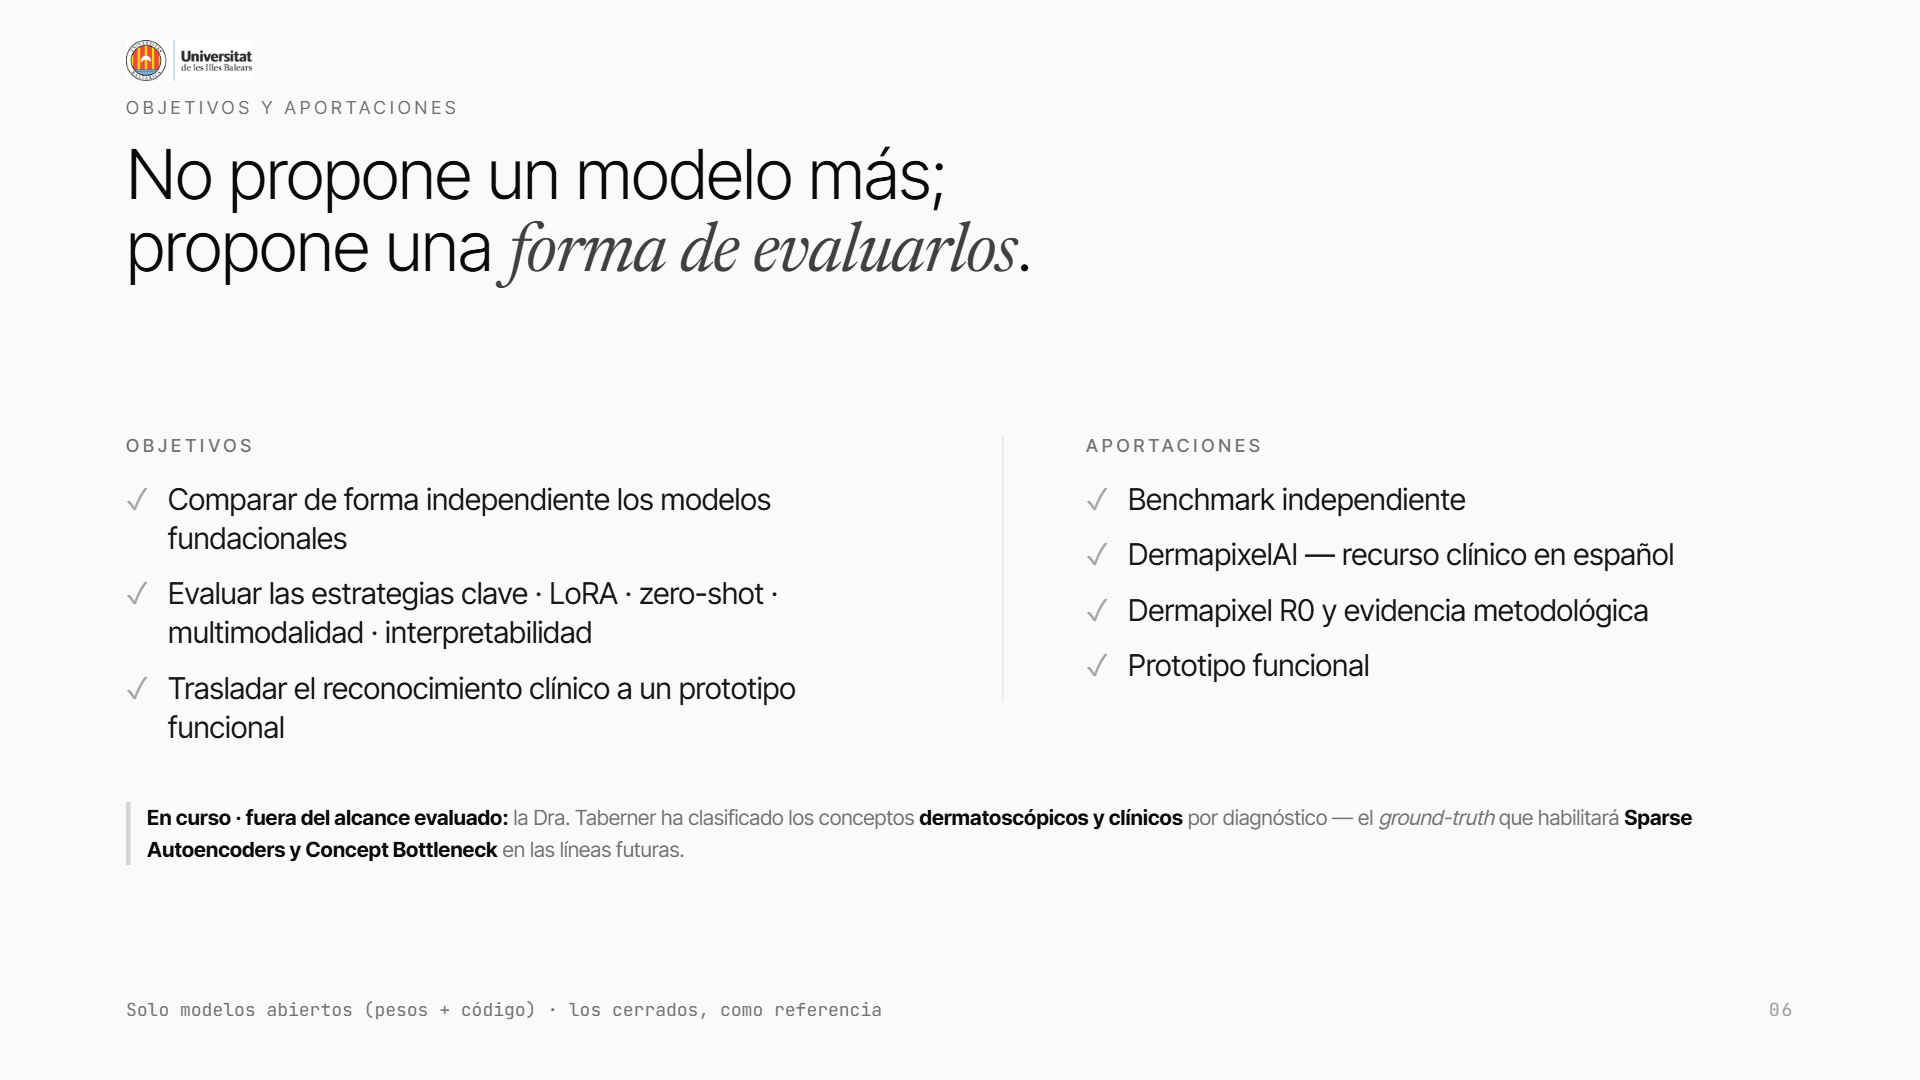
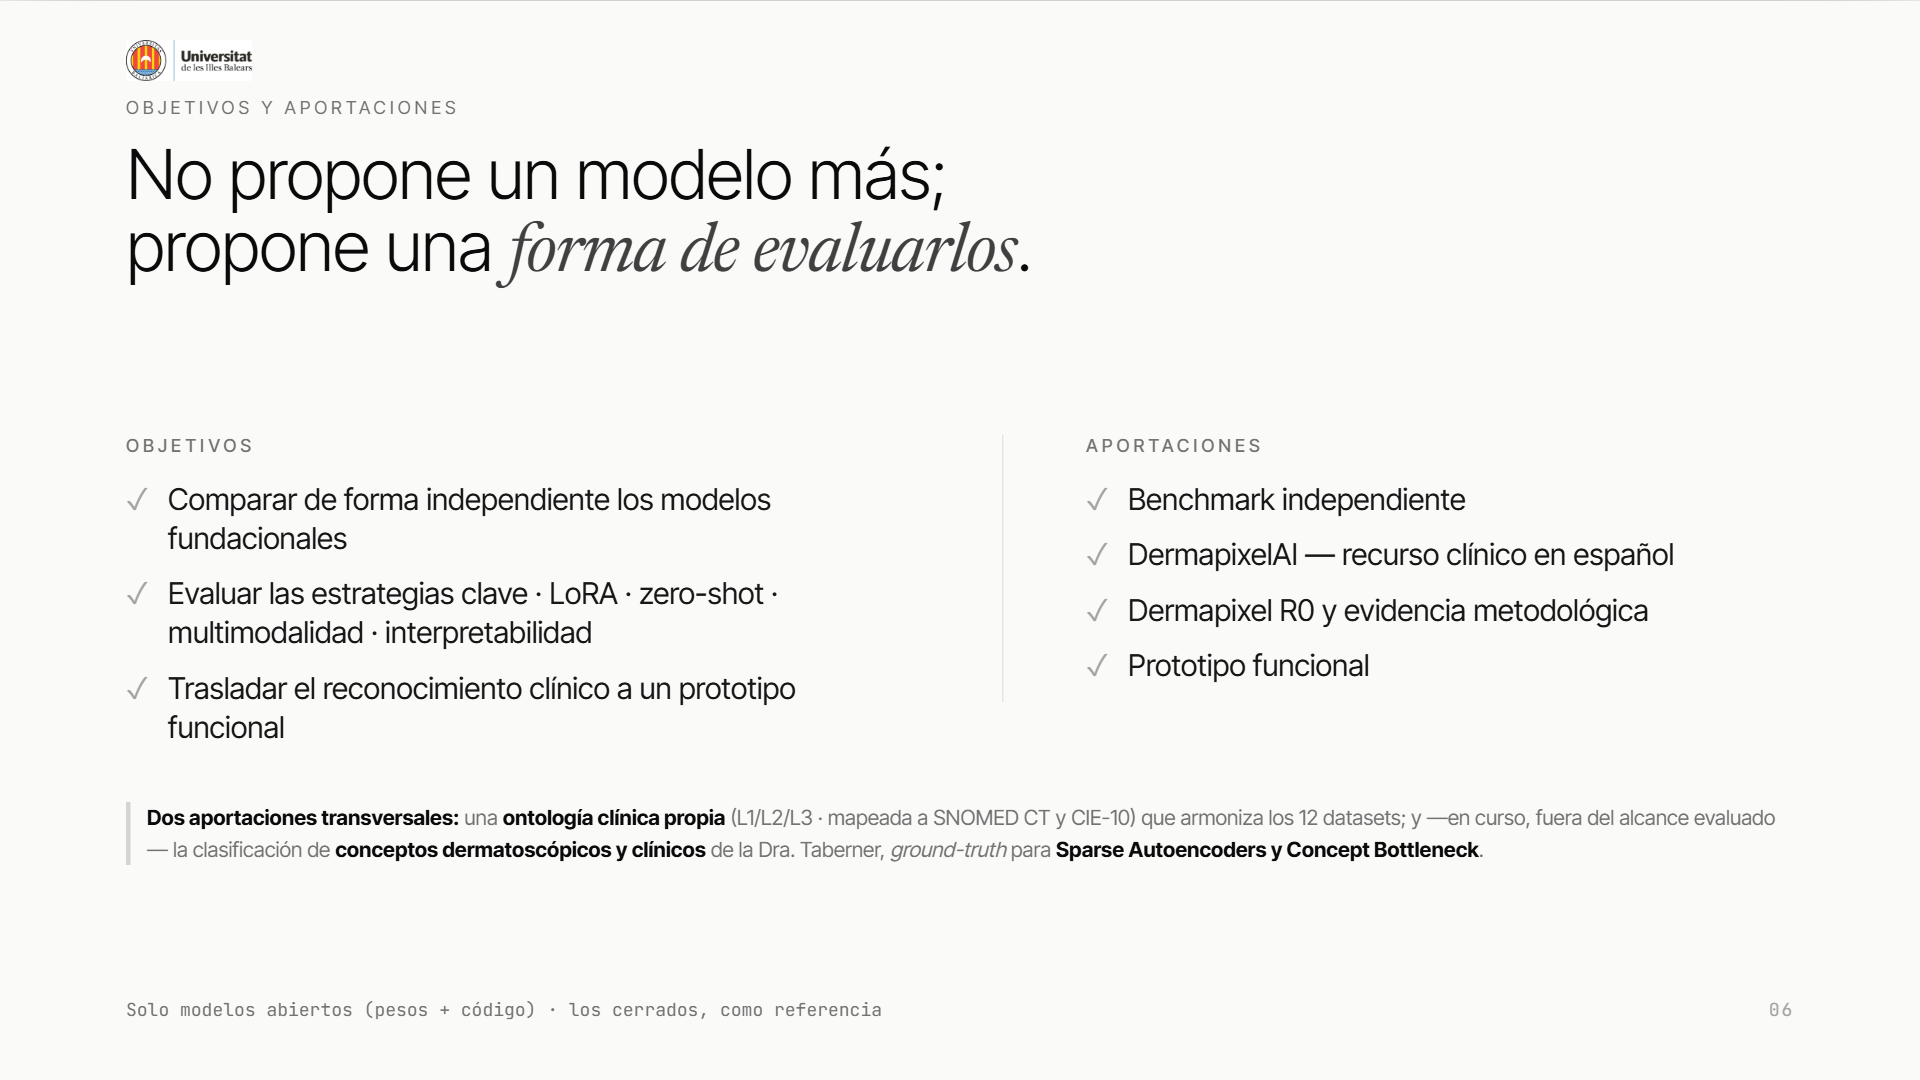
deck slide06: anade la ontologia clinica propia (L1/L2/L3, SNOMED/CIE-10) como aportacion transversal junto a los conceptos

Changed region(s): [[0.0625, 0.7333, 0.9375, 0.7944]]

diff --git a/deck/index.html b/deck/index.html
@@ -342,7 +342,7 @@
   </section>
 
   <!-- ═══ Slide 5 · Objetivos y aportaciones ═══ -->
-  <section class="slide" data-notes="Tres objetivos: comparar de forma independiente los modelos fundacionales; evaluar las estrategias clave —LoRA, zero-shot, multimodalidad, interpretabilidad—; y trasladar el reconocimiento sobre fotografía clínica a un prototipo funcional. Y la idea que resume el espíritu: no propone un modelo más, propone una forma de evaluarlos. De ahí sus cuatro aportaciones: benchmark independiente, DermapixelAI, evidencia metodológica con Dermapixel R0, y un prototipo funcional. Todas las comparaciones priorizan modelos abiertos, por reproducibilidad; los cerrados, solo como referencia. Y un apunte, ya fuera del alcance evaluado pero que he empezado a introducir: la Dra. Taberner ha clasificado los conceptos dermatoscópicos y clínicos por diagnóstico; ese vocabulario será el ground-truth que habilite los Sparse Autoencoders y los Concept Bottleneck en las líneas futuras.">
+  <section class="slide" data-notes="Tres objetivos: comparar de forma independiente los modelos fundacionales; evaluar las estrategias clave —LoRA, zero-shot, multimodalidad, interpretabilidad—; y trasladar el reconocimiento sobre fotografía clínica a un prototipo funcional. Y la idea que resume el espíritu: no propone un modelo más, propone una forma de evaluarlos. De ahí sus cuatro aportaciones: benchmark independiente, DermapixelAI, evidencia metodológica con Dermapixel R0, y un prototipo funcional. Todas las comparaciones priorizan modelos abiertos, por reproducibilidad; los cerrados, solo como referencia. A esas cuatro se suman dos aportaciones transversales: una ontología clínica propia de tres niveles, mapeada a SNOMED y CIE-10, que armoniza todos los datasets; y —ya fuera del alcance evaluado— la clasificación de conceptos dermatoscópicos y clínicos de la Dra. Taberner, ground-truth que habilitará los Sparse Autoencoders y los Concept Bottleneck en las líneas futuras.">
     <img class="uib-mark" src="assets/537341_escudoUIB_horizontal.png" alt="Universitat de les Illes Balears">
     <div class="head"><div class="kicker">Objetivos y aportaciones</div>
       <h2 class="biglead">No propone un modelo más; propone una <span class="serif">forma de evaluarlos</span>.</h2></div>
@@ -365,7 +365,7 @@
         </div>
       </div>
     </div>
-    <div class="muted" style="margin-top:26px; font-size:14px; line-height:1.5; box-shadow:inset 3px 0 0 var(--ink300); padding-left:14px; max-width:none"><b style="color:var(--ink)">En curso · fuera del alcance evaluado:</b> la Dra. Taberner ha clasificado los conceptos <b style="color:var(--ink)">dermatoscópicos y clínicos</b> por diagnóstico — el <i>ground-truth</i> que habilitará <b style="color:var(--ink)">Sparse Autoencoders y Concept Bottleneck</b> en las líneas futuras.</div>
+    <div class="muted" style="margin-top:26px; font-size:14px; line-height:1.5; box-shadow:inset 3px 0 0 var(--ink300); padding-left:14px; max-width:none"><b style="color:var(--ink)">Dos aportaciones transversales:</b> una <b style="color:var(--ink)">ontología clínica propia</b> (L1/L2/L3 · mapeada a SNOMED CT y CIE-10) que armoniza los 12 datasets; y —en curso, fuera del alcance evaluado— la clasificación de <b style="color:var(--ink)">conceptos dermatoscópicos y clínicos</b> de la Dra. Taberner, <i>ground-truth</i> para <b style="color:var(--ink)">Sparse Autoencoders y Concept Bottleneck</b>.</div>
     </div>
     <div class="muted mono" style="position:absolute; left:84px; bottom:40px; font-size:12px">Solo modelos abiertos (pesos + código) · los cerrados, como referencia</div>
     <div class="pageno mono">06</div>
